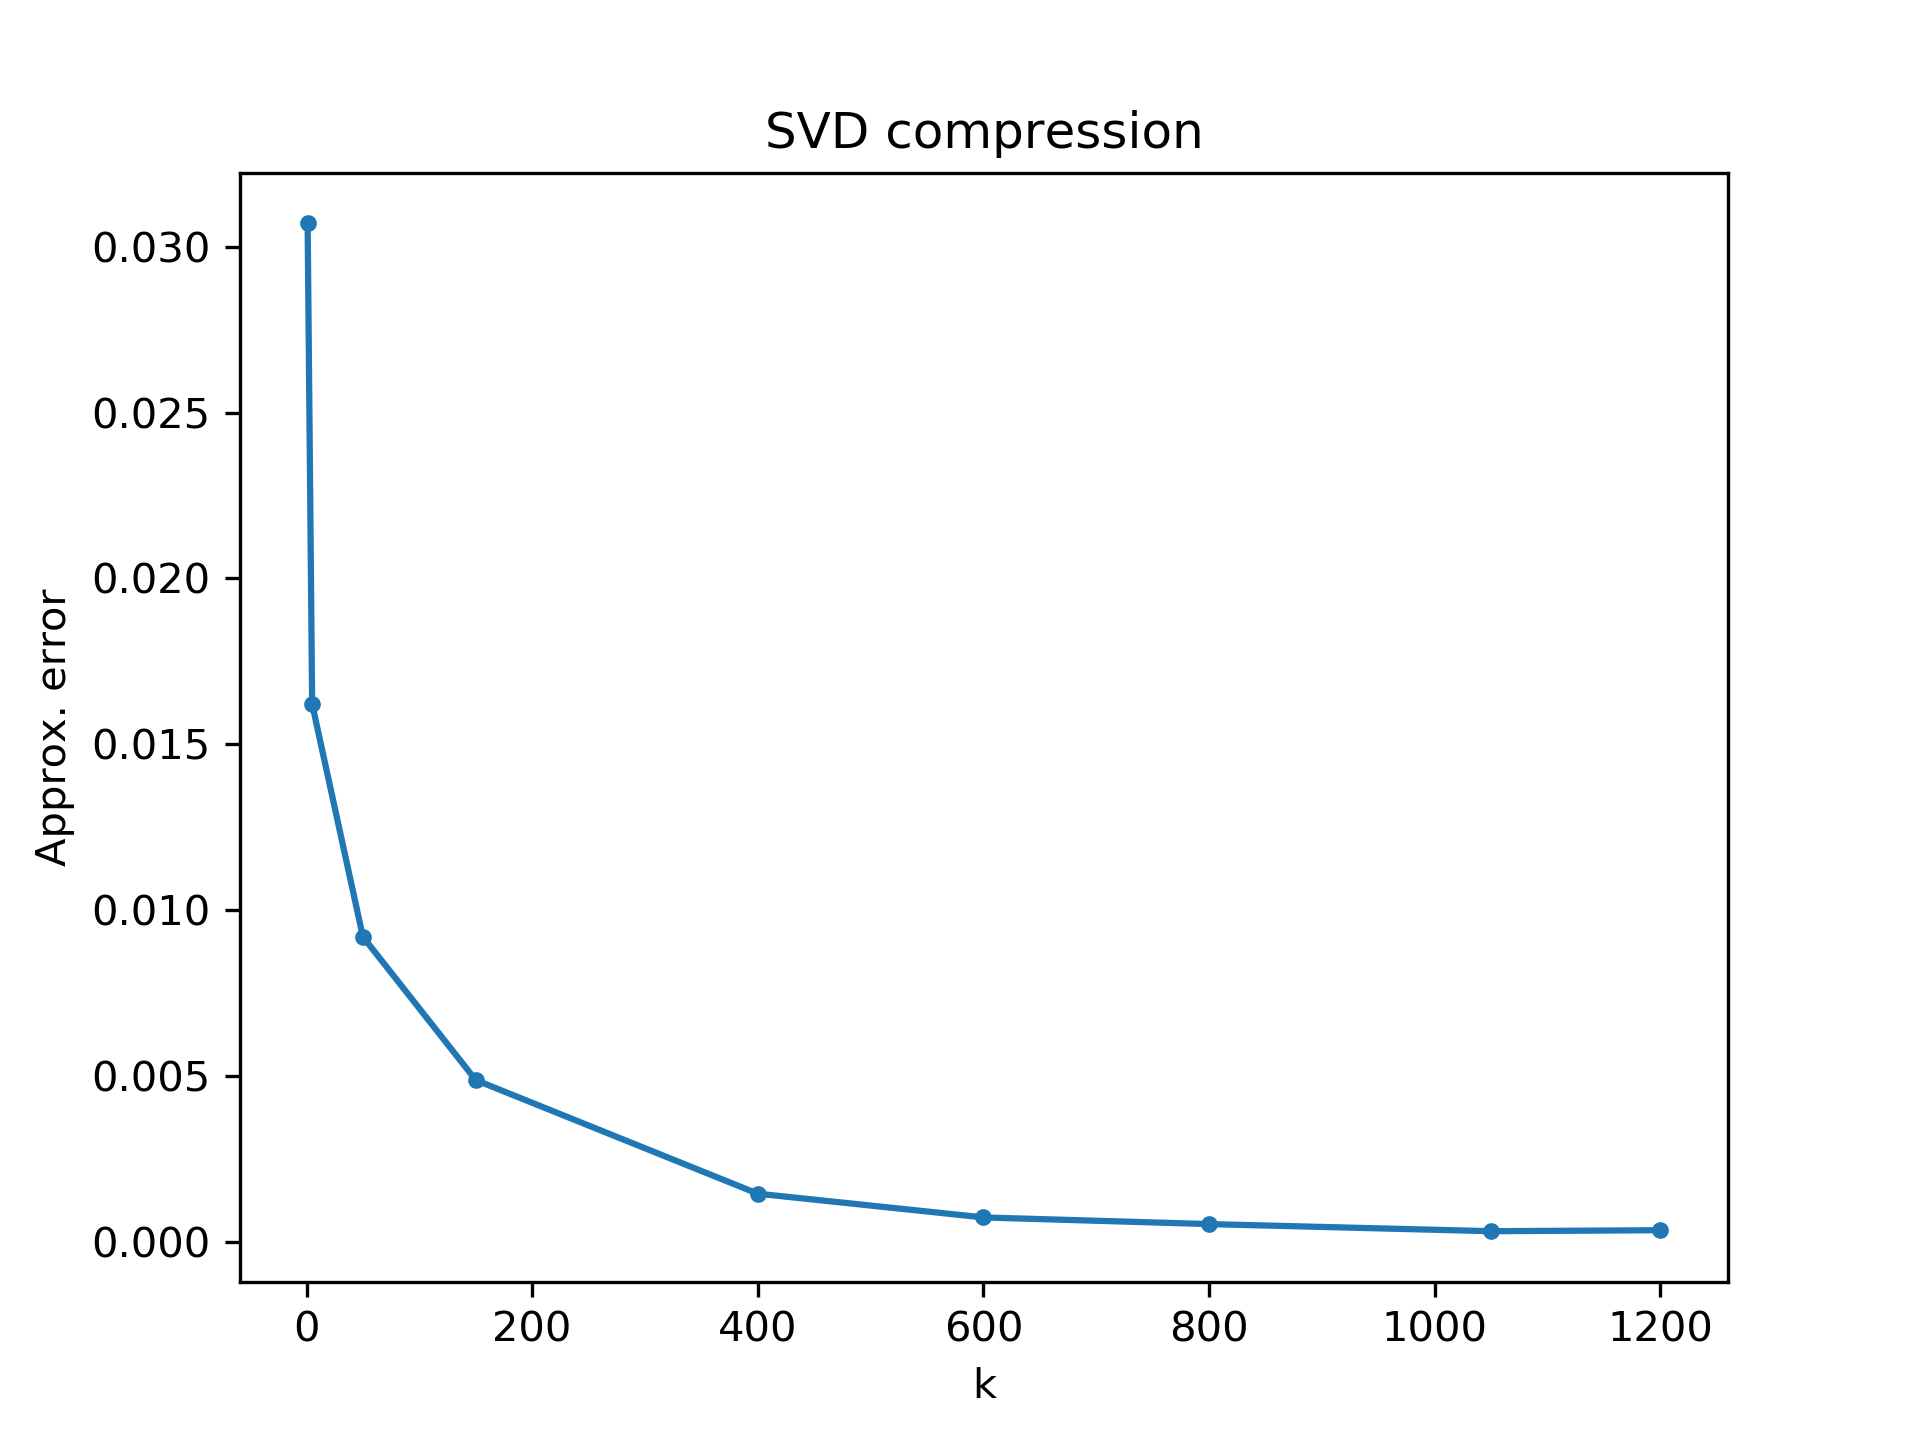
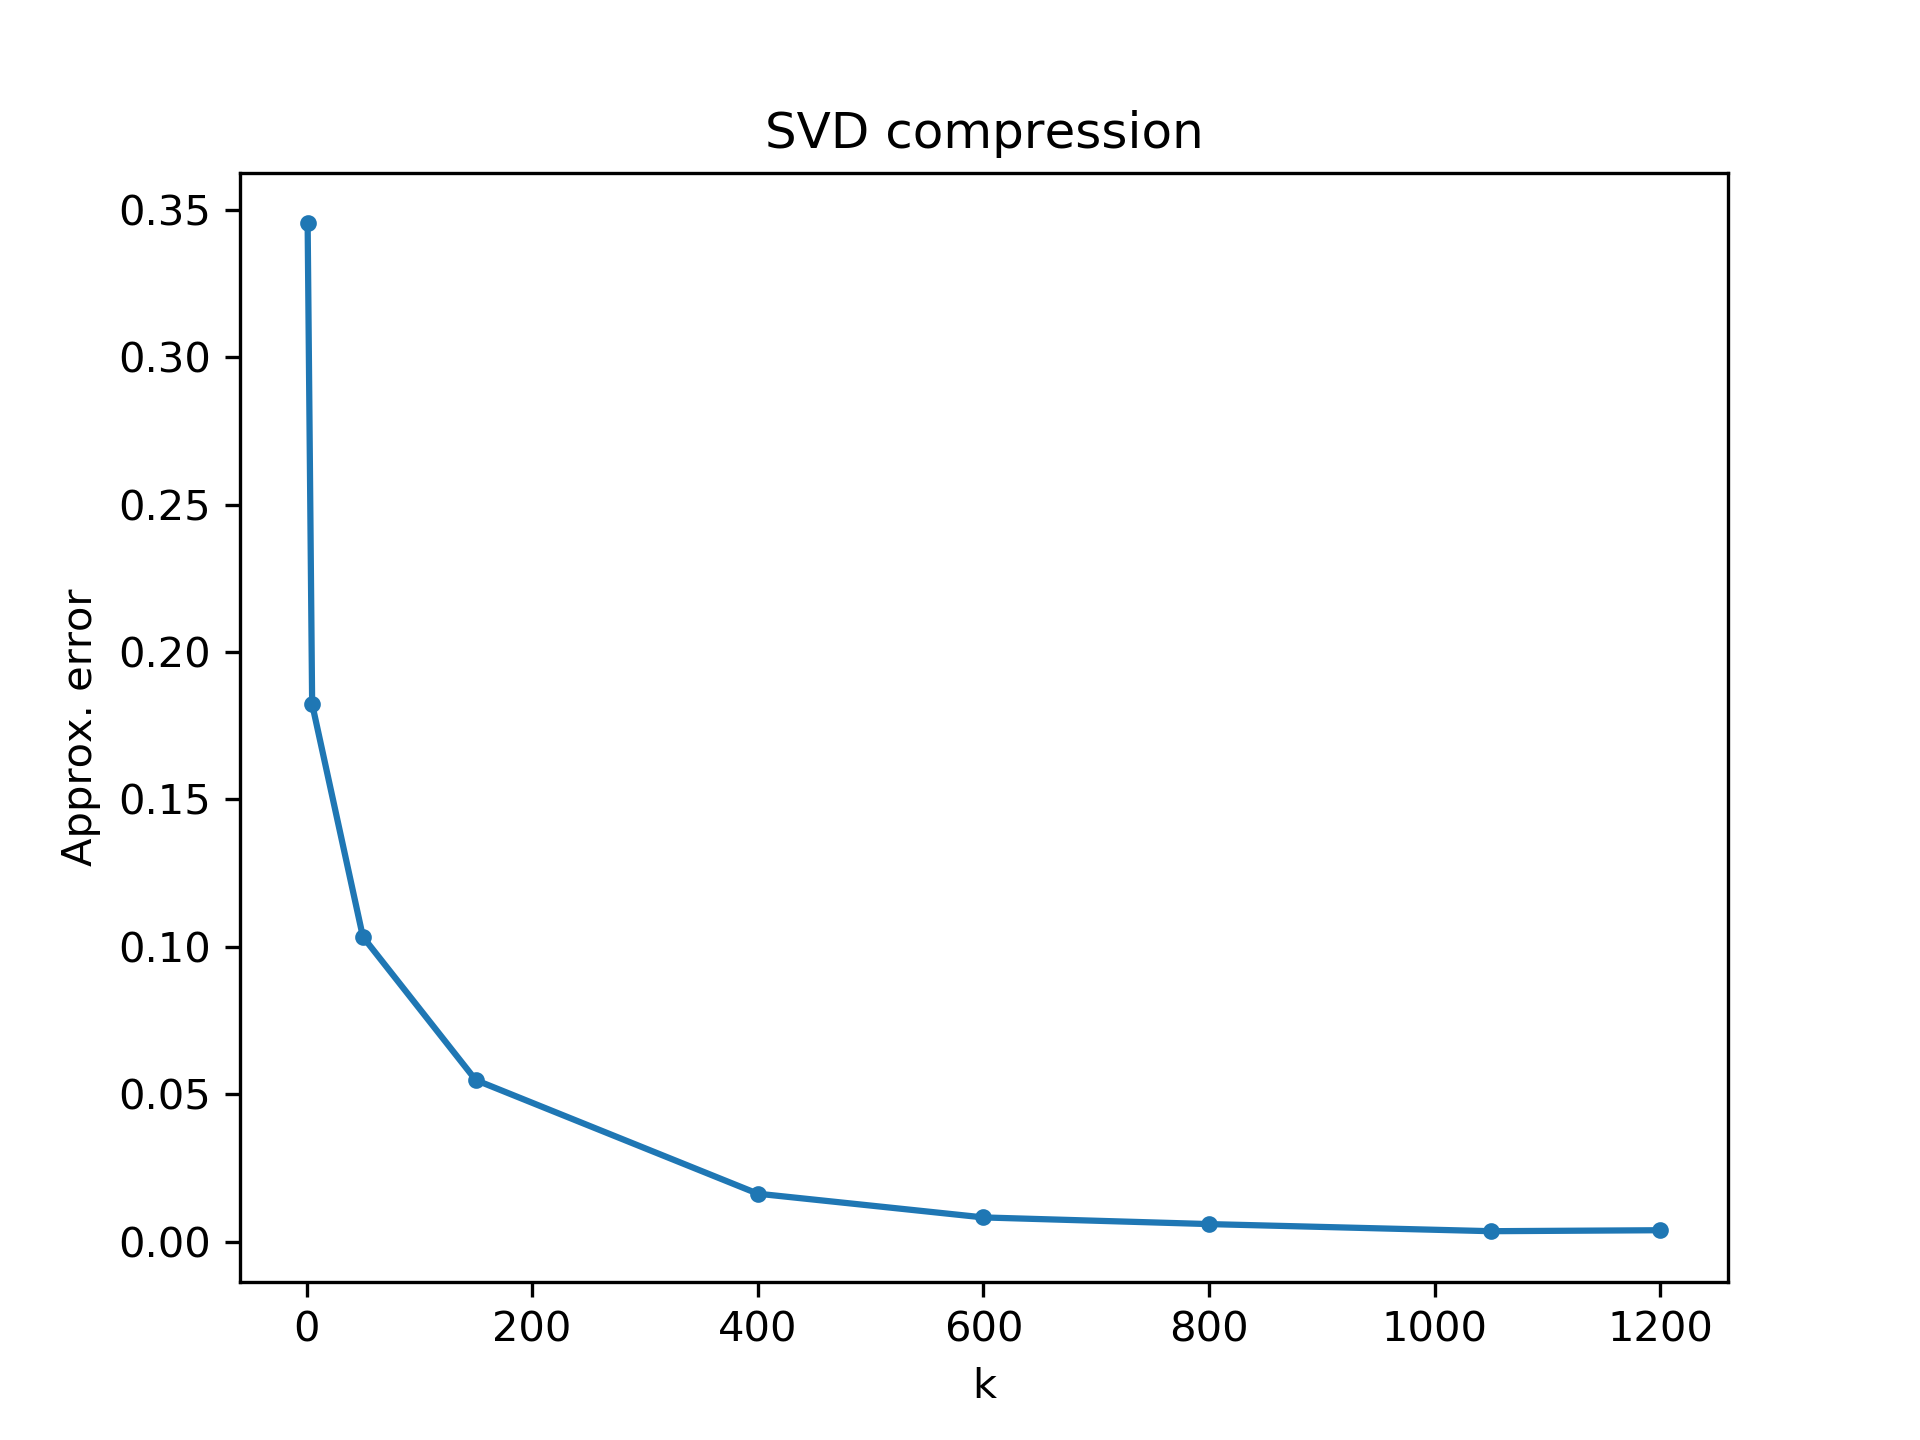
update error function and the corresponding curve.png

diff --git a/HW6/utils.py b/HW6/utils.py
@@ -23,7 +23,7 @@ def save_image(imArr, fpath='output.jpg'):
     """
     im = Image.fromarray(imArr)
     im.save(fpath)
-    
+
 def plot_curve(k, err, fpath='curve.png', show=False):
     """Save the relation curve of k and approx. error to fpath
     Arg:
@@ -43,7 +43,7 @@ def plot_curve(k, err, fpath='curve.png', show=False):
         plt.savefig(fpath, dpi=300)
 
 def approx_error(imArr, imArr_compressed):
-    """Calculate approximation error 
+    """Calculate RMSE approximation error
     Arg:
         Two numpy arrays
     Return:
@@ -51,4 +51,4 @@ def approx_error(imArr, imArr_compressed):
     """
     v = imArr.ravel().astype(float)
     u = imArr_compressed.ravel().astype(float)
-    return np.linalg.norm(v - u) / len(v)
+    return np.linalg.norm(v - u) / np.sqrt(len(v)) / 255
